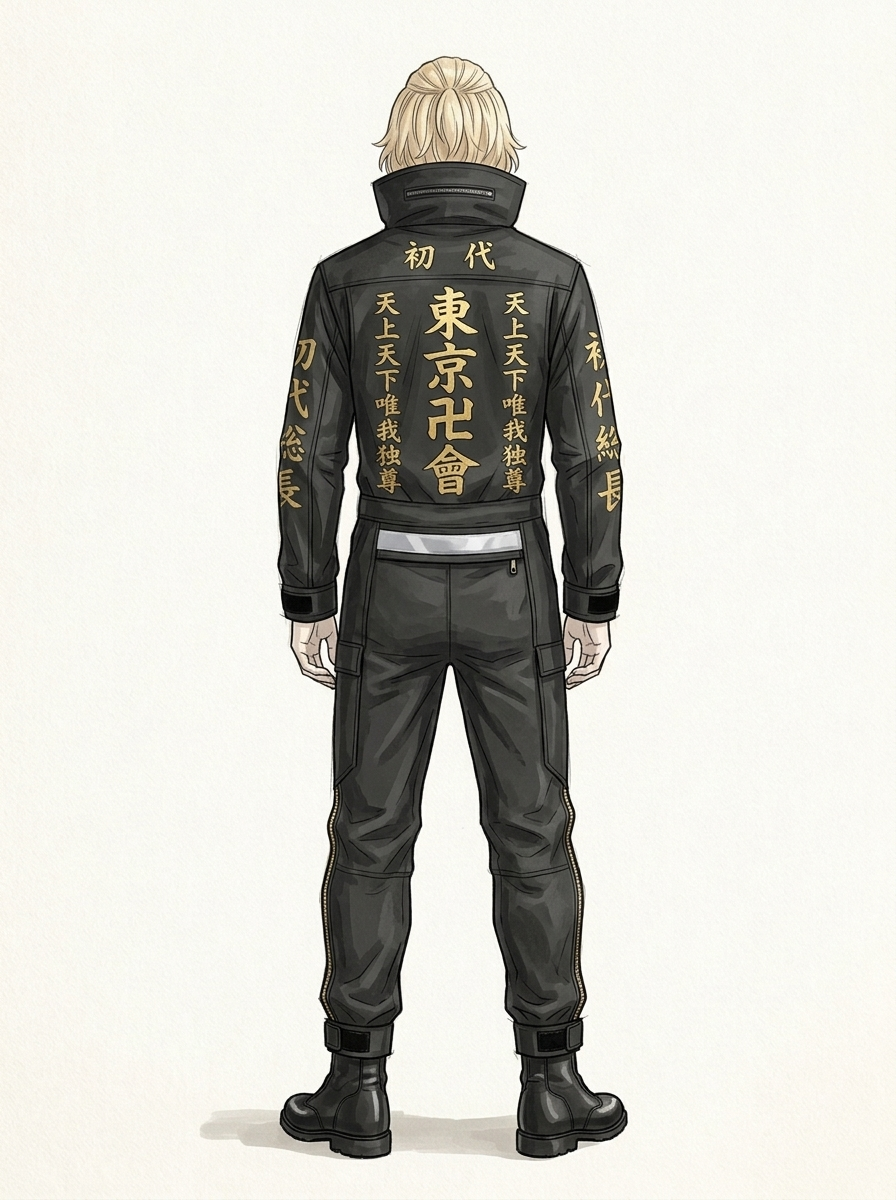
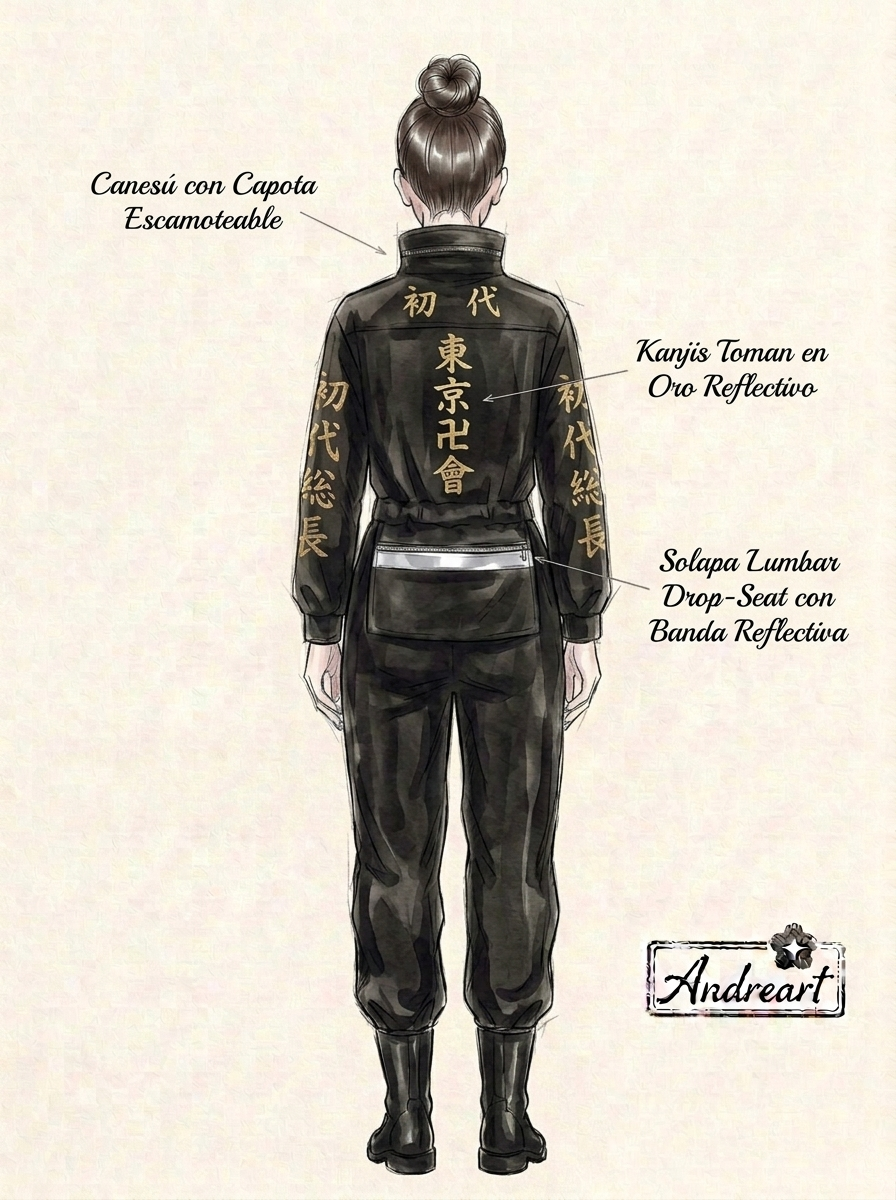
feat(over-rider-bosozoku): regenerar figurin dorsal Toman Shodai con tecnica canonica de atelier y disciplina tipografica
- Aplicar tecnica de aguada de acuarela negra, tinta y grafito sobre papel marfil (#F6F4EE)
- Incorporar kanjis dorados reflectivos de la Tokyo Manji Gang con escala armonica
- Reducir y contener llamadas tecnicas a 3 notas discretas sin sobrecargar la composicion
- Sincronizar SPEC.md, manifest.json e index.ts con los 4 activos canonicos aprobados

diff --git a/Andreart Brain/01 Brand Context/Colecciones/Over-Rider Bosozoku/index.ts b/Andreart Brain/01 Brand Context/Colecciones/Over-Rider Bosozoku/index.ts
@@ -82,7 +82,7 @@ export const ASSETS: Record<string, CollectionAsset> = {
     category: 'figurine',
     garment: 'Enterizo Over-Rider Toman Shodai',
     view: 'espalda-dorsal',
-    description: 'Figurín de autor anime dorsal mostrando la gráfica caligráfica en oro reflectivo de la Tokyo Manji Gang ("初代", "東京卍會", "天上天下唯我独尊"), canesú sastre con compartimento de capota y solapa drop-seat lumbar con banda reflectiva.',
+    description: 'Figurín de autor a mano alzada en acuarela sobre papel marfil (#F6F4EE) dorsal mostrando la gráfica caligráfica en oro reflectivo de la Tokyo Manji Gang ("初代", "東京卍會", "初代総長"), canesú con compartimento de capota, solapa drop-seat lumbar con banda reflectiva, llamadas técnicas sutiles y sello Andreart.',
     sourceReference: './references/refe-dropseat-lumbar-1.jpg',
     status: 'active',
     approved: true

diff --git a/Andreart Brain/01 Brand Context/Colecciones/Over-Rider Bosozoku/SPEC.md b/Andreart Brain/01 Brand Context/Colecciones/Over-Rider Bosozoku/SPEC.md
@@ -101,7 +101,7 @@ Diseñada para el motociclista contemporáneo que rechaza los uniformes genéric
 
 #### Vista Dorsal / Espalda (Figurín Protagónico)
 ![[01 Brand Context/Colecciones/Over-Rider Bosozoku/assets/02-figurin-toman-shodai-espalda.jpg]]
-*Figurín Dorsal (Toman Shodai):* Vista posterior de cuerpo entero mostrando la imponente gráfica caligráfica en oro reflectivo de la Tokyo Manji Gang ("初代" en canesú superior, "東京卍會" central a gran escala y "天上天下唯我独尊" en laterales), kanjis de manga "初代総長", compartimento de capota escamoteable en cuello, y sistema drop-seat lumbar abatible protegido por franja reflectiva microprismática de seguridad vial de 5 cm.
+*Figurín Dorsal (Toman Shodai v1.1):* Croquis de atelier a mano alzada sobre papel marfil texturizado (#F6F4EE) con trazo a lápiz grafito fino, entintado a pluma de tinta china y aguada de acuarela translúcida en negro azabache mate (#0D0D0E): vista posterior de cuerpo entero con moño alto pulido luciendo la caligrafía tradicional en oro reflectivo de la Tokyo Manji Gang ("初代" en canesú superior, "東京卍會" en espina central y "初代総長" en mangas), canesú con compartimento para capota escamoteable, solapa lumbar abatible (*drop-seat*) con banda reflectiva horizontal plata, tres llamadas técnicas caligráficas discretas y el sello oficial Andreart en la esquina inferior derecha.
 
 ### Enterizo Over-Rider The Capsules (Akira)
 
